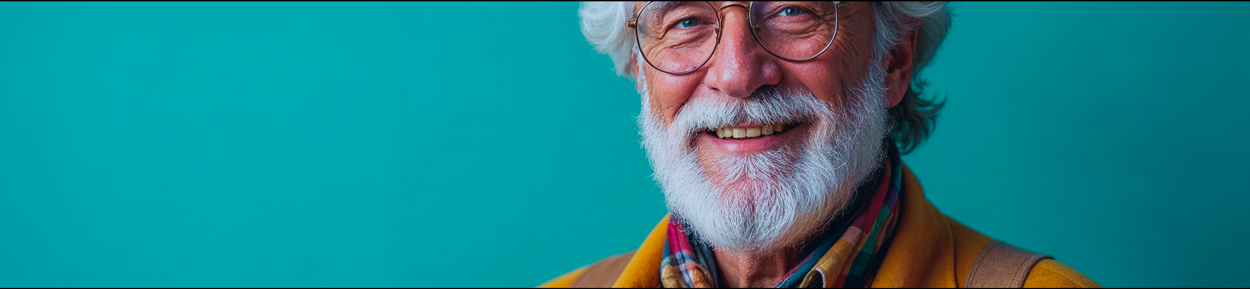
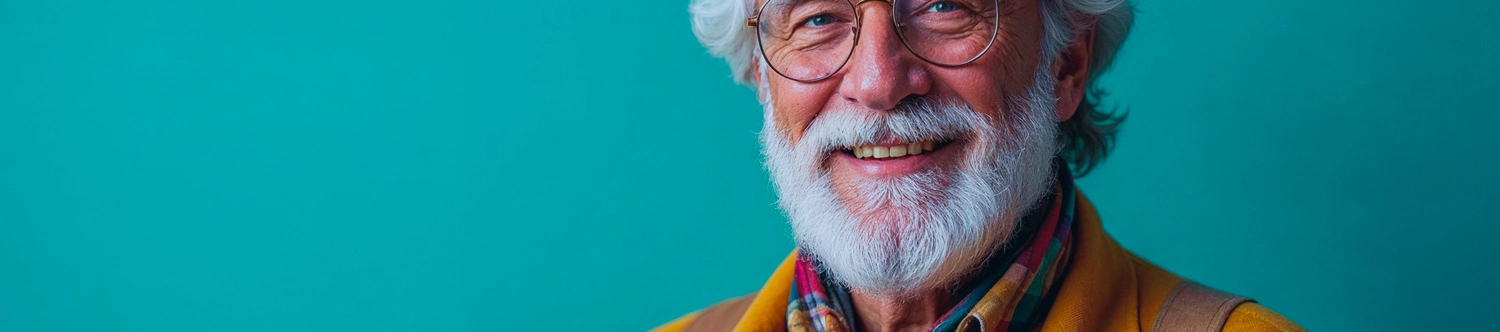
add text footer

Changed region(s): [[0.0, 0.0, 1.0, 1.0]]

diff --git a/frontend/src/components/Footer/Footer.tsx b/frontend/src/components/Footer/Footer.tsx
@@ -8,16 +8,15 @@ export default function Footer() {
         <div id="footer">
             <div className="containerFooter">
                 <div>
-                    <Link to="/">Lorem Ipsum is simply dummy</Link>
-                    <Link to="/">Lorem Ipsum is simply dummy</Link>
-                    <Link to="/">Lorem Ipsum is simply dummy</Link>
-                    <Link to="/">Lorem Ipsum is simply dummy</Link>
+                    <Link to="/">Sitemap</Link>
+                    <Link to="/">Mentions lgales</Link>
+                    <Link to="/">Politiques de confidentialité</Link>
+                    <Link to="/">Cookie</Link>
                 </div>
                 <div>
-                    <Link to="/">Lorem Ipsum is simply dummy</Link>
-                    <Link to="/">Lorem Ipsum is simply dummy</Link>
-                    <Link to="/">Lorem Ipsum is simply dummy</Link>
-                    <Link to="/">Lorem Ipsum is simply dummy</Link>
+                    <h5>Orizon</h5>
+                    <p>29 Rue Charcot Paris 75013 - France</p>
+                    <p>01 45 84 27 45</p>
                 </div>
                 <div>
                     <img width="350px" src={logo} alt="logo-orizon" />

diff --git a/frontend/src/components/CardEvent/CardEvent.tsx b/frontend/src/components/CardEvent/CardEvent.tsx
@@ -100,7 +100,7 @@ export default function CardEvent() {
                     <div className="elmCard">
                         <div key={event.id}>
                             <a onClick={() => { setSelectedCard(event); setModalOpen(true);}}><img src={event.photo} alt="photo evenement" /></a>
-                            <h3>{event.name}</h3>
+                            <a onClick={() => { setSelectedCard(event); setModalOpen(true);}}><h3>{event.name}</h3></a>
                             <p>{event.start_date} au {event.end_date}</p>
                             <p><span>{event.city} ({event.zip_code})</span></p>
                             <p className='eventDescription'>{event.description}</p>

diff --git a/frontend/src/components/Rooftop/RooftopConnected.tsx b/frontend/src/components/Rooftop/RooftopConnected.tsx
@@ -25,7 +25,7 @@ export default function RooftopConnected() {
                     <div className='buttonHover'><NavLink to='/evenements'>Événements</NavLink></div>
                     <div className='buttonHover'><NavLink to='/communaute'>Communauté</NavLink></div>
                     <div className='buttonHover'><NavLink to='/profil'>Profil</NavLink></div>
-                    <div className='buttonHover'><NavLink to='/profil'>Messagerie</NavLink></div>
+                    <div className='buttonHover'><NavLink to='/messages'>Messagerie</NavLink></div>
                     <div className='buttonHover3'><NavLink to='/'>Déconnexion</NavLink></div>
                 </div>
             </div>

diff --git a/frontend/src/components/CardEvent/CardEvent.scss b/frontend/src/components/CardEvent/CardEvent.scss
@@ -49,6 +49,14 @@
     box-shadow: rgba(100, 100, 111, 0.2) 0px 7px 29px 0px;
 }
 
+.elmCard h3 {
+    cursor: pointer;
+}
+
+.elmCard img {
+    cursor: pointer;
+}
+
 /* *************** Version Desktop ************* */
 
 @media (min-width: 1291px) {
@@ -74,6 +82,7 @@
 
     .mdlSection1 img {
         width: 100%;
+        cursor: pointer;
     }
 
     #mdlSection2 {

diff --git a/frontend/src/components/Footer/Footer.scss b/frontend/src/components/Footer/Footer.scss
@@ -37,6 +37,10 @@
     margin-top: 3rem
 }
 
+#footer h5 {
+    color: #fff;
+}
+
 /* -----------------Version Desktop ----------------- */
 
 @media (min-width: 1291px) {
@@ -71,6 +75,6 @@
     font-size: 0.8rem;
     font-weight: 200;
     text-align: center;
-    margin-top: 3rem
+    margin-top: 0.6rem
 }
 } 
